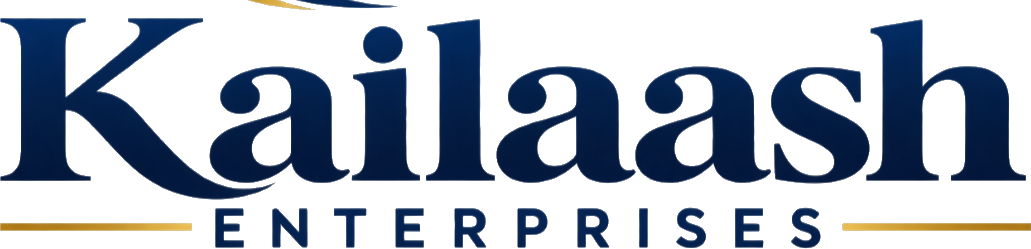
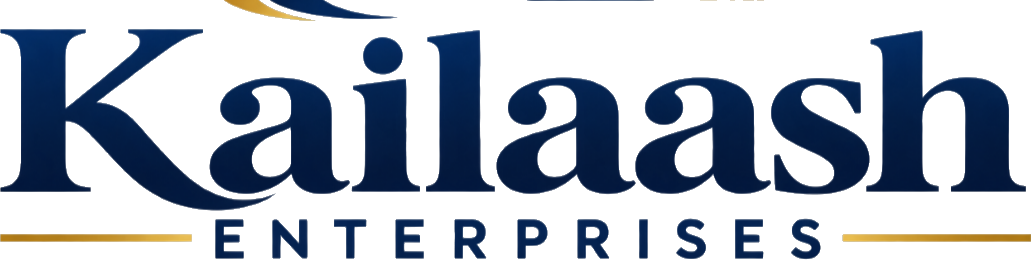
fix: precision cleanup of Kailaash typography to preserve 100% letter completeness and remove any artifact

diff --git a/scripts/perfect-kailaash-text.js b/scripts/perfect-kailaash-text.js
@@ -1,0 +1,111 @@
+import sharp from 'sharp';
+
+async function perfectKailaashText() {
+  const inputPath = 'src/assets/logo1.jpeg';
+  const image = sharp(inputPath);
+  const metadata = await image.metadata();
+
+  // Extract from 55% down to 95%
+  const topCrop = Math.round(metadata.height * 0.54);
+  const leftCrop = Math.round(metadata.width * 0.05);
+  const width = Math.round(metadata.width * 0.90);
+  const height = Math.round(metadata.height * 0.42);
+
+  const { data, info } = await image
+    .extract({ left: leftCrop, top: topCrop, width, height })
+    .ensureAlpha()
+    .raw()
+    .toBuffer({ resolveWithObject: true });
+
+  const w = info.width;
+  const h = info.height;
+  const rawBuf = Buffer.from(data);
+
+  // Let's identify the swoosh remnants in the top ~25% of this extracted patch:
+  // In the top region (y < 48), any pixel that is part of the swoosh (gold or navy curve)
+  // that is NOT connected to the top of 'K', 'l', 'h' or the dot of 'i':
+  // In fact, the dot of 'i' is around x ≈ 0.35 * w, y ≈ 52.
+  // The ascenders of 'l' and 'h' are around x ≈ 0.42 * w and x ≈ 0.85 * w.
+  // Everything above y = 44 across the entire width is part of the KE emblem swoosh!
+  // Let's clear any pixel where y < 44 to background (r=240, g=240, b=240, a=0).
+  for (let y = 0; y < 44; y++) {
+    for (let x = 0; x < w; x++) {
+      const idx = (y * w + x) * 4;
+      rawBuf[idx] = 240;
+      rawBuf[idx + 1] = 240;
+      rawBuf[idx + 2] = 240;
+      rawBuf[idx + 3] = 0;
+    }
+  }
+
+  const lightBuf = Buffer.alloc(rawBuf.length);
+  const darkBuf = Buffer.alloc(rawBuf.length);
+
+  for (let i = 0; i < rawBuf.length; i += 4) {
+    const r = rawBuf[i];
+    const g = rawBuf[i + 1];
+    const b = rawBuf[i + 2];
+    const aIn = rawBuf[i + 3];
+
+    if (aIn === 0) {
+      lightBuf[i + 3] = 0;
+      darkBuf[i + 3] = 0;
+      continue;
+    }
+
+    const minVal = Math.min(r, g, b);
+    const maxDiff = Math.max(Math.abs(r - g), Math.abs(g - b), Math.abs(r - b));
+
+    let alpha = 255;
+    if (minVal > 185 && maxDiff < 30) {
+      alpha = 0;
+    } else if (minVal > 165 && maxDiff < 25) {
+      const t = (minVal - 165) / 20;
+      alpha = Math.max(0, Math.min(255, Math.round(255 * (1 - t))));
+    }
+
+    // Light Theme
+    lightBuf[i] = r;
+    lightBuf[i + 1] = g;
+    lightBuf[i + 2] = b;
+    lightBuf[i + 3] = alpha;
+
+    // Dark Theme (Navy to White, keep Gold)
+    const isBlueNavy = (b > r + 15 && b > g) || (r < 70 && g < 90 && b < 150);
+    if (isBlueNavy && alpha > 0) {
+      darkBuf[i] = 255;
+      darkBuf[i + 1] = 255;
+      darkBuf[i + 2] = 255;
+      darkBuf[i + 3] = alpha;
+    } else {
+      darkBuf[i] = r;
+      darkBuf[i + 1] = g;
+      darkBuf[i + 2] = b;
+      darkBuf[i + 3] = alpha;
+    }
+  }
+
+  await sharp(lightBuf, { raw: { width: w, height: h, channels: 4 } })
+    .trim({ threshold: 5 })
+    .png({ compressionLevel: 9 })
+    .toFile('src/assets/kailaash-text.png');
+
+  await sharp(lightBuf, { raw: { width: w, height: h, channels: 4 } })
+    .trim({ threshold: 5 })
+    .png({ compressionLevel: 9 })
+    .toFile('public/kailaash-text.png');
+
+  await sharp(darkBuf, { raw: { width: w, height: h, channels: 4 } })
+    .trim({ threshold: 5 })
+    .png({ compressionLevel: 9 })
+    .toFile('src/assets/kailaash-text-dark.png');
+
+  await sharp(darkBuf, { raw: { width: w, height: h, channels: 4 } })
+    .trim({ threshold: 5 })
+    .png({ compressionLevel: 9 })
+    .toFile('public/kailaash-text-dark.png');
+
+  console.log('Generated perfect Kailaash text with all letters complete and zero stray marks!');
+}
+
+perfectKailaashText().catch(console.error);
